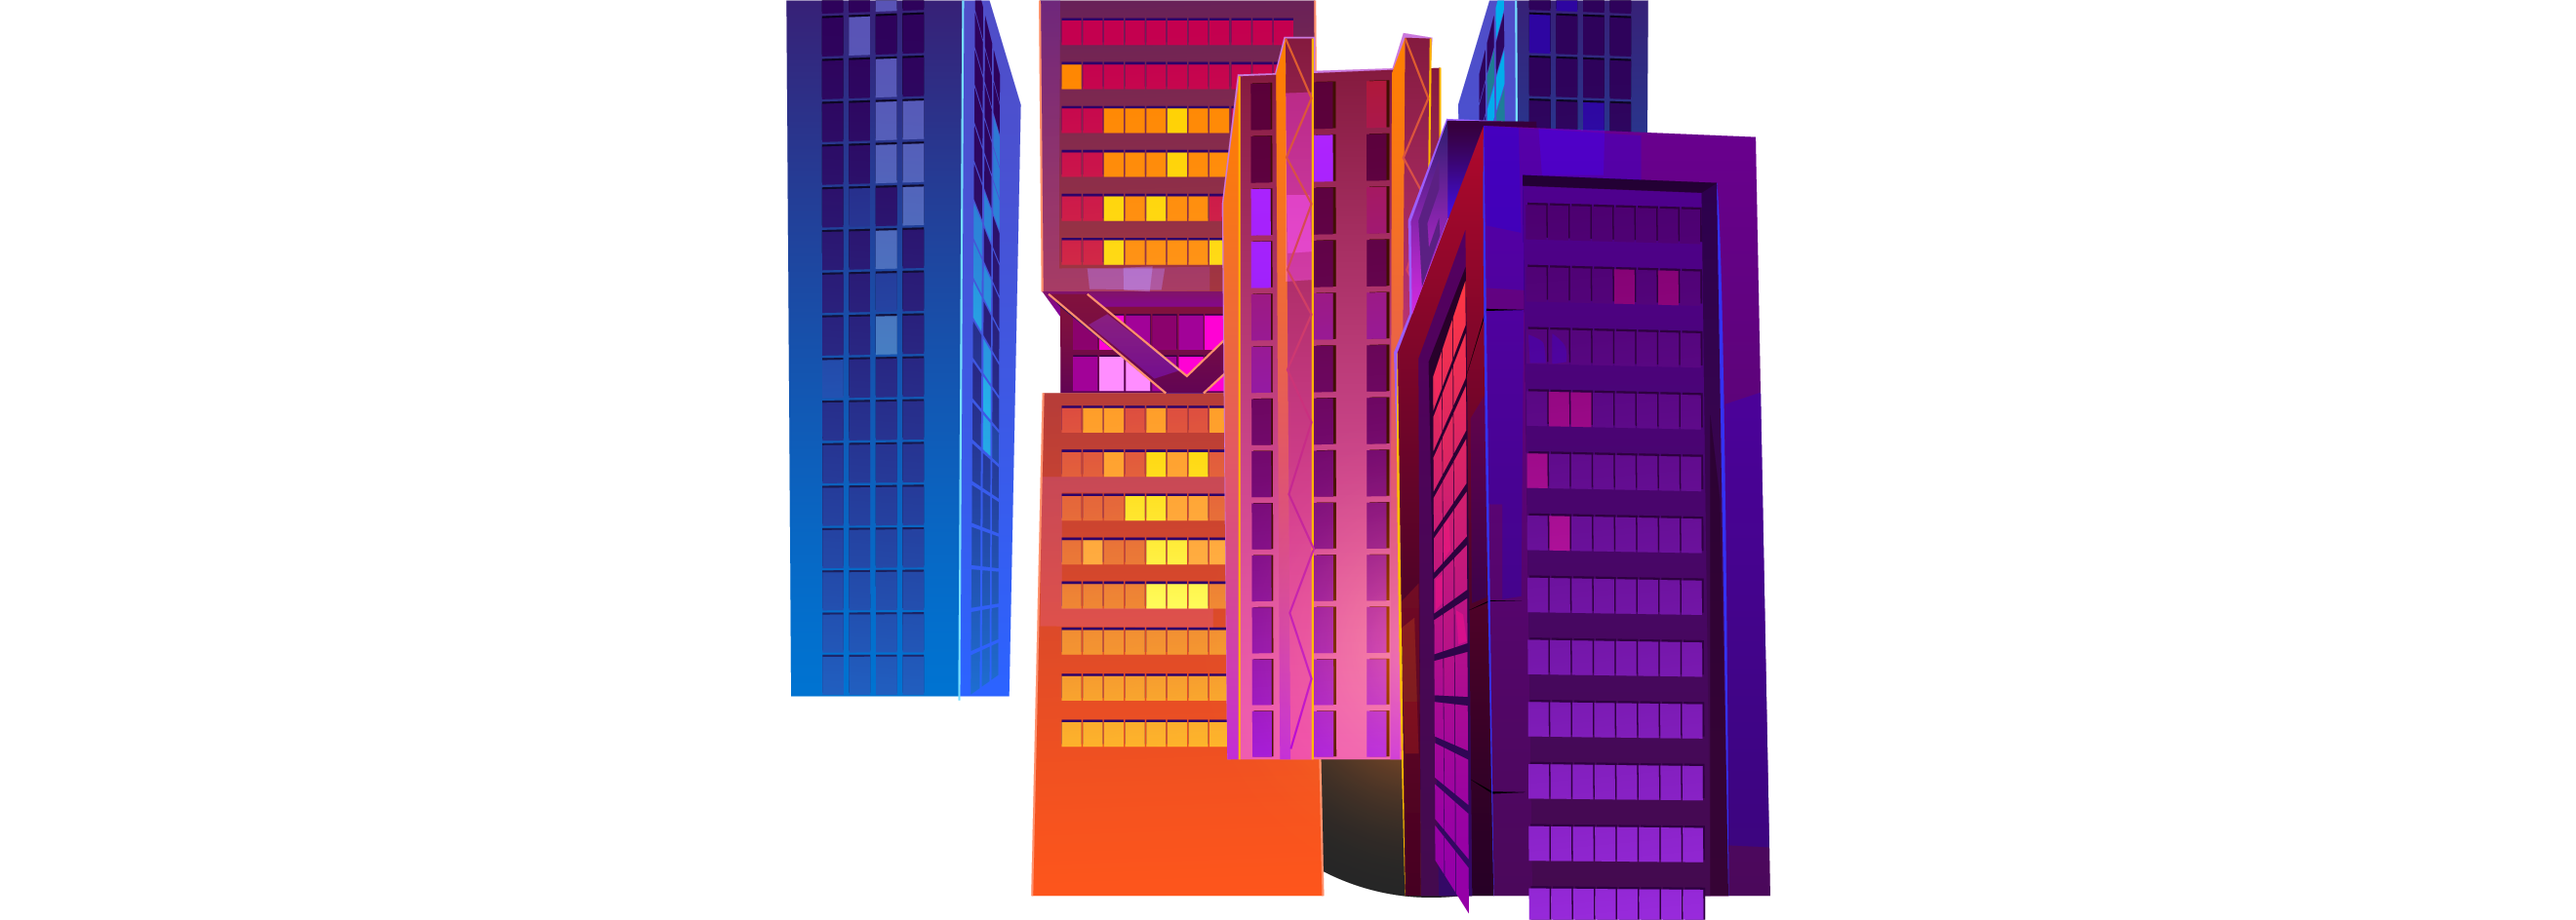
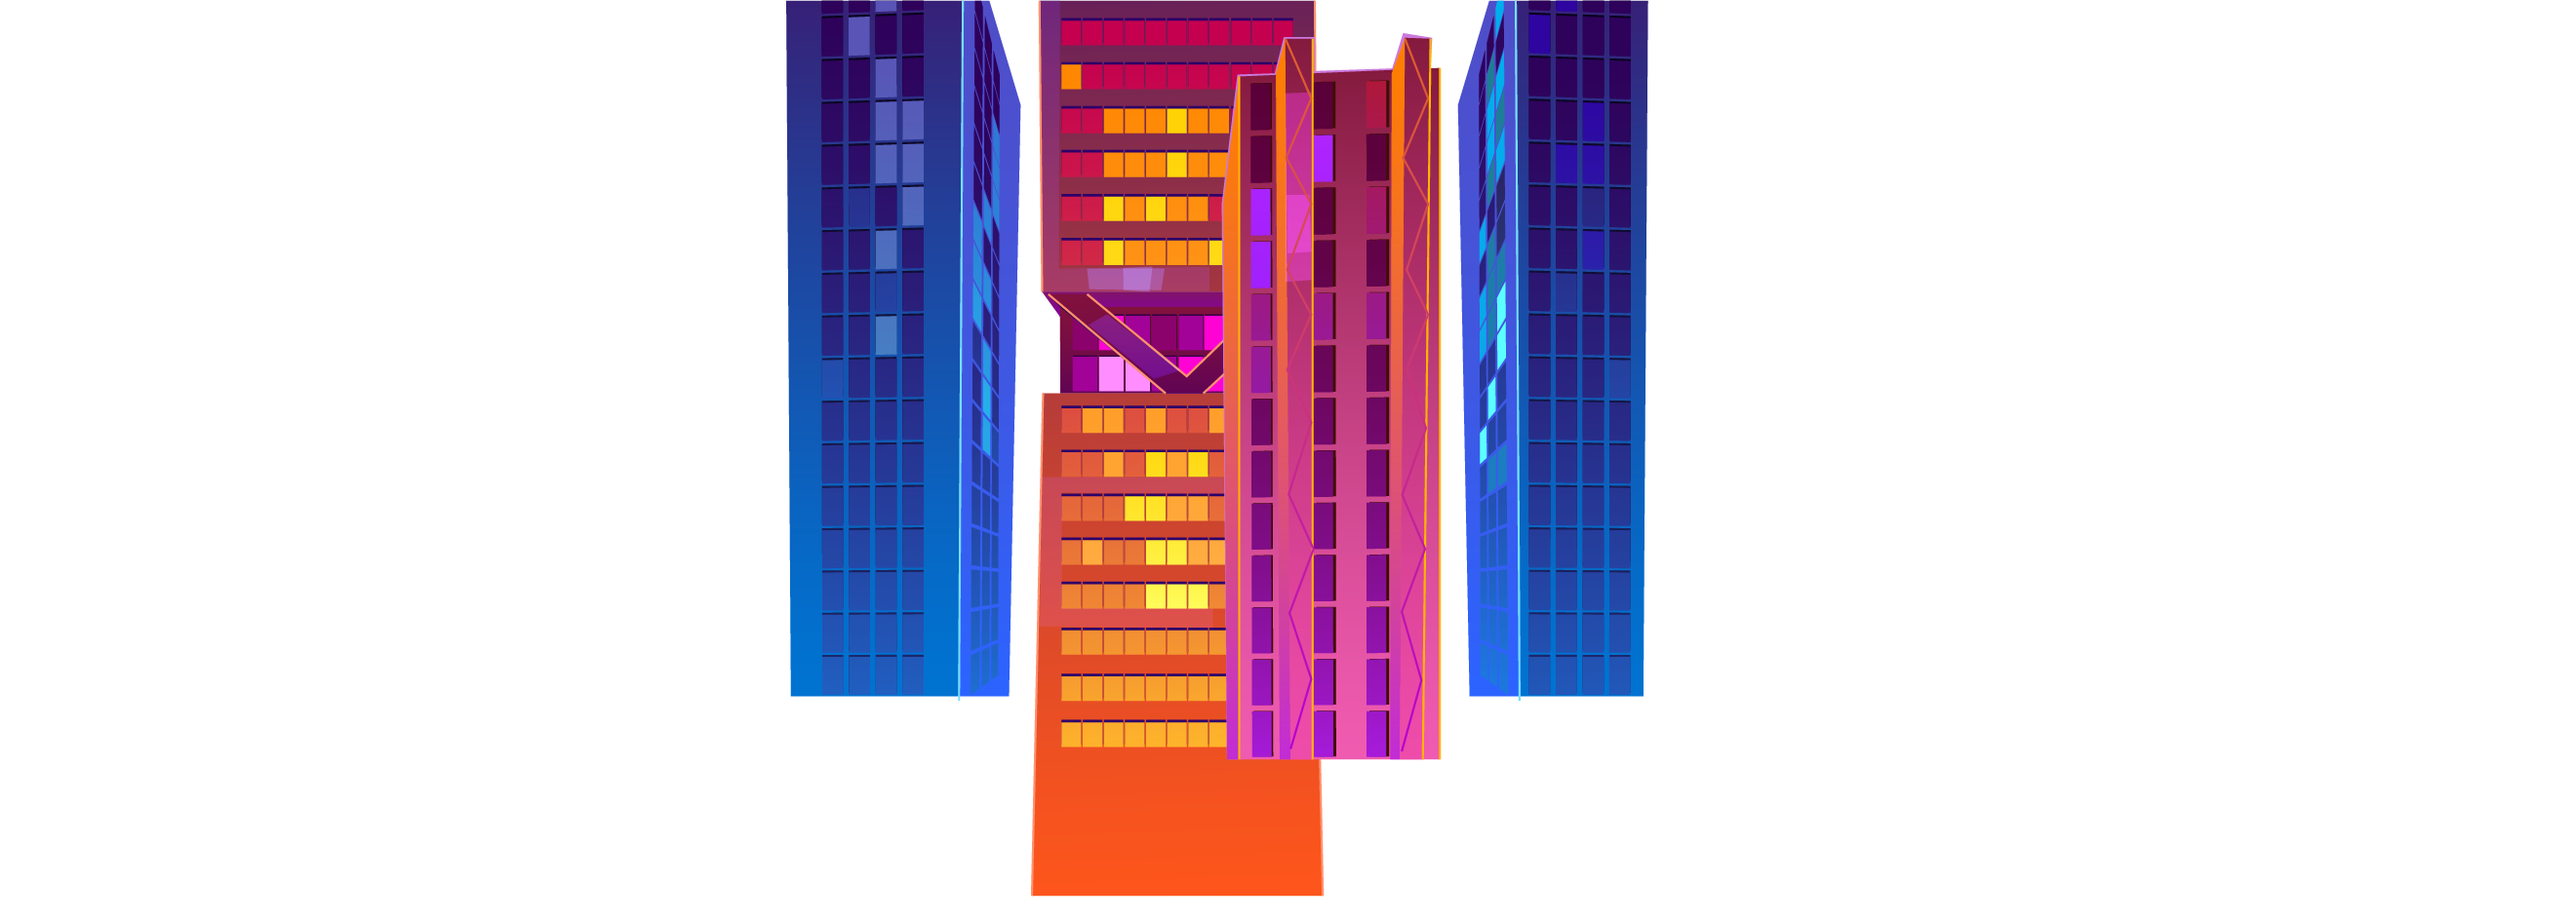
Fix vectors add phone responsive

diff --git a/stylesheet.css b/stylesheet.css
@@ -117,7 +117,8 @@ img.img-couple{
     margin-right: 10%;
 }
 .disclaimer-control>p{
-    font-size: 18px;
+    font-size: calc(1vw + 1vh + 0.2vmin);
+    /* font-size: 18px; */
     margin-right: 10%;
     text-align: justify;
 }
@@ -224,3 +225,72 @@ button:active:after {
     opacity: 1;
     transition: 0s;
 }
+
+@media screen and (max-width: 600px){
+
+    /* 
+        Hero text    
+    */
+    .hero-container{
+        margin-top: 3rem;
+        background-color: rgba(0, 0, 0, 0.6);
+        padding: 1rem;
+    }
+    .hero-container>h1{
+        text-align: center;
+        font-weight: bold;
+        color: white;
+        font-size: 36px;
+    }
+
+    /* 
+        Form section
+    */
+    .form-container-content{
+        margin: 1.5rem;
+    }
+    .disclaimer-control>p{
+        margin-right: 0px;
+    }
+    .form-header{
+        margin-top: calc(10% + 1vh);
+        /* font-size: 36px; */
+        font-size: calc(1.5vw + 1.5vh + 1vmin);
+    }
+
+    /* 
+        Input fieldset section
+    */
+
+    .input-fieldset{
+        margin-top: 3rem;
+        margin-right: 10%;
+        display: grid;
+        grid-template-columns: repeat(1,1fr);
+        margin-bottom: calc(2rem + 1.5vh);
+    }
+    #btn-submit {
+        border-radius: 15px;
+        padding: 0.7rem 1.3rem;
+        background-image: linear-gradient(to right, #470252 0%, #821B84  51%, #470252  100%);
+        transition: 0.3s;
+        background-size: 200% auto;
+        color: white;
+        border: none;  
+        display: block;
+        cursor: pointer;
+        transition-duration: 0.4s;
+        min-width: 150px;
+    }
+    input{
+        background-color: black;
+        color: white;
+        border: none;
+        outline: none;
+        border-top: 1px solid black;
+        border-bottom: 1px solid #7f0592;
+        font-size: 16px;
+        width: 100%;
+    }
+}
+

diff --git a/index.html b/index.html
@@ -17,7 +17,9 @@
 
             <img src="./Vectors/Asset 2.png" alt="windows" class="img-2 img-buildings" data-speed-x="0.025" data-speed-y="0.015">
             <img src="./Vectors/Asset 3.png" alt="buildings middle" class="img-3 img-buildings" data-speed-x="0.01" data-speed-y="0.02">
-            <img src="./Vectors/Asset 4.png" alt="buildings side" class="img-4 img-buildings" data-speed-x="0.02" data-speed-y="0.01">
+            <img src="./Vectors/Asset 8.png" alt="building right side" class="img-7 img-buildings" data-speed-x="0.022" data-speed-y="0.015">
+
+            <img src="./Vectors/Asset 4.png" alt="buildings side" class="img-4 img-buildings" data-speed-x="0.018" data-speed-y="0.025">
             <img src="./Vectors/Asset 5.png" alt="buildings far side" class="img-5 img-buildings" data-speed-x="0.018" data-speed-y="0.03">
 
             <img src="./Vectors/Asset 6.png" alt="railings" class="img-6 img-buildings2">
